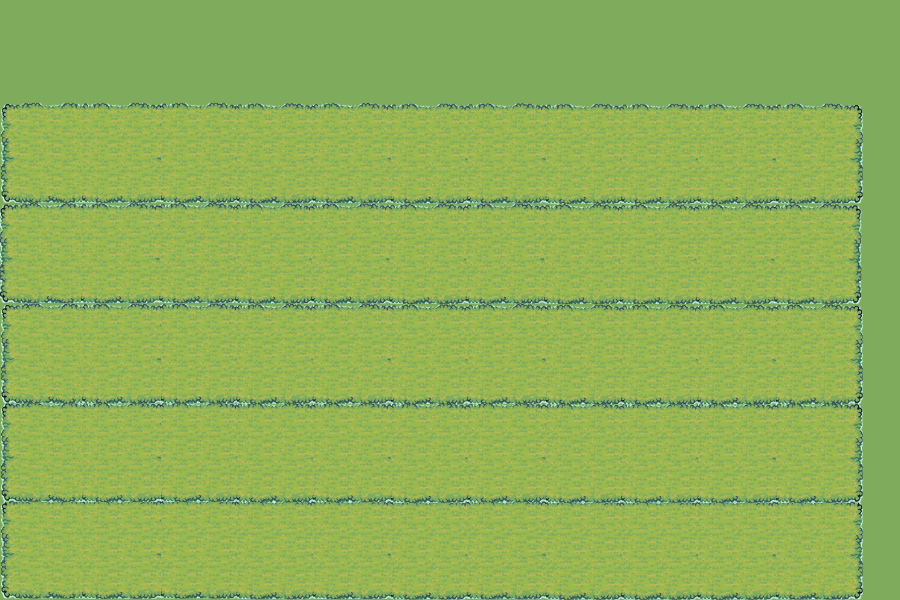
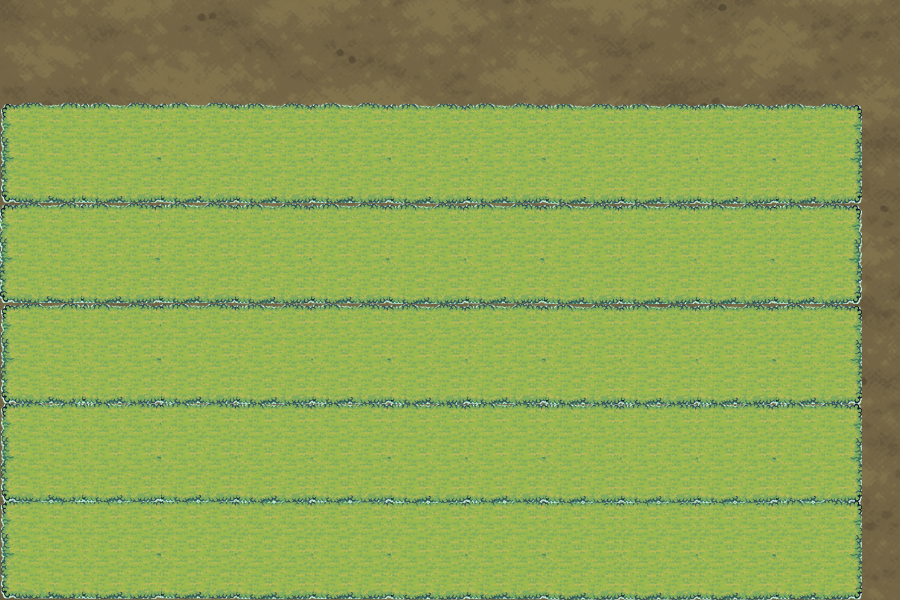
Background added, and warrior close-range attack function is in process

diff --git a/script.js b/script.js
@@ -93,12 +93,16 @@ function handleGameGrid() {
 }
 
 // projectiles
+
+const arrow = new Image();
+arrow.src = 'public/Defenders/Tiny Swords (Free Pack)/Units/Black Units/Archer/Arrow.png';
+
 class Projectile {
     constructor(x, y) {
         this.x = x;
         this.y = y;
-        this.width = 10;
-        this.height = 10;
+        this.width = 60;
+        this.height = 30;
         this.power = 20;
         this.speed = 5;
     }
@@ -106,10 +110,7 @@ class Projectile {
         this.x += this.speed;
     }
     draw() {
-        ctx.fillStyle = 'black';
-        ctx.beginPath();
-        ctx.arc(this.x, this.y, this.width, 0, Math.PI * 2);
-        ctx.fill();
+        ctx.drawImage(arrow, this.x, this.y, this.width, this.height);
     }
 }
 function handleProjectiles() {
@@ -186,6 +187,7 @@ class Defender {
     }
     update() {
         //animation
+        if (this.chosenDefender === 1 || this.chosenDefender === 2 || this.chosenDefender === 3) {
         if (frame % 10 === 0) {
             if (this.frameX < this.maxFrame) {
                 this.frameX++;
@@ -199,12 +201,55 @@ class Defender {
         
         } //controls the speed of the defender animation
 
-        if (this.shooting && this.shootNow) {
+    } else if (this.chosenDefender === 4) { //cuando no hay enemigos, hace los frames del 0 al 7, y cuando hay enemigos en la fila, hace todos los frames
+        this.maxFrame = 21;
+        if (frame % 10 === 0) {
+            if (this.frameX < this.maxFrame) {
+                this.frameX++;
+                //loop back to the beginning of the idle animation if not shooting to avoid staying on the shooting end frame
+                if (this.frameX === 7) {
+                    if (!this.shooting) this.frameX = 0;
+                }
+            } 
+            else  this.frameX = this.minFrame;
+            if (this.frameX === 12) this.shootNow = true;
+        
+        }
+
+}
+        
+        if (this.chosenDefender === 1) {
+            if (this.shooting && this.shootNow) {
             projectiles.push(new Projectile(this.x + 70, this.y + 50));
             this.shootNow = false;
             }
+        }
+        else if (this.chosenDefender === 2) {
+            if (this.shooting && this.shootNow) {
+            projectiles.push(new Projectile(this.x + 70, this.y + 50));
+            this.shootNow = false;
+            }
+        }
+        else if (this.chosenDefender === 3) {
+            if (this.shooting && this.shootNow) {
+            projectiles.push(new Projectile(this.x + 70, this.y + 50));
+            this.shootNow = false;
+            }
+        }
+        else if (this.chosenDefender === 4) {
+            for (let j = 0; j < enemies.length; j++) {
+                const enemy = enemies[j];
+                const sameRow = enemy.y === this.y;
+                const closeX = enemy.x < this.x + cellSize && enemy.x > this.x;
+                if (sameRow && closeX) {
+                    enemy.health -= 1;
+                    this.shooting = true;
+                    this.shootNow = false;
+                }
+        }
     }
-} //Shooting logic for defenders finished. DO NOT TOUCH unless wanting to increase/decrease shooting speed at line 159
+}
+} //Shooting logic for defenders finished. DO NOT TOUCH unless wanting to increase/decrease shooting speed
 canvas.addEventListener('click', function() {
     const gridPositionX = mouse.x - (mouse.x % cellSize) + cellGap;
     const gridPositionY = mouse.y - (mouse.y % cellSize) + cellGap; //this will snap the defender to the grid

diff --git a/style.css b/style.css
@@ -1,9 +1,9 @@
 body {
-    color: black;
+    background-image: url("public/Background.png");
 }
 
 #canvas1 {
-  border: 2px solid black;
+ 
     position: absolute;
     top: 50%;
     left: 50%;
@@ -12,6 +12,8 @@ body {
     height: 600px;
     background-image: url("public/Paths.png");
     font-family: 'Orbitron', sans-serif;
+
+    box-shadow: 0 0 14px rgba(153, 255, 0, 0.05);
 }
 
 .orbitron-font {
